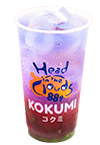
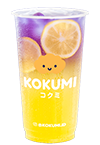
Change image

diff --git a/container/homepage.js b/container/homepage.js
@@ -54,7 +54,7 @@ export default function Homepage() {
             width={60}
             height={60}
             onClick={() => {
-              click('#baaaf6');
+              click('#ffe108');
               clickImage('/image/cheese miring.png');
             }}
           />
